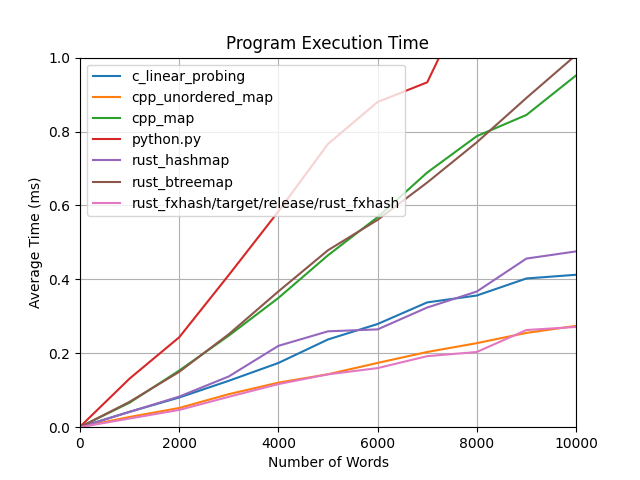
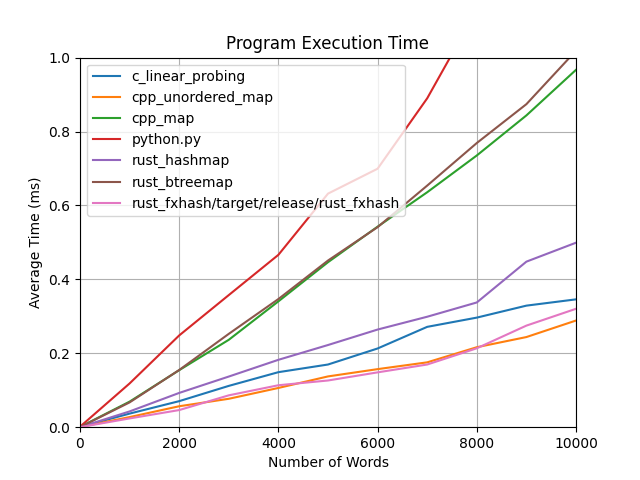
.

diff --git a/gen_words.py b/gen_words.py
@@ -3,14 +3,15 @@
 import random
 import sys
 
-words = open("/usr/share/dict/words").readlines()
-words = random.sample(words, 1000)
+def genwords(samplesize, numwords):
+	words = open("/usr/share/dict/words").readlines()
+	words = random.sample(words, samplesize)
 
-numwords = int(sys.argv[1]) if len(sys.argv) > 1 else 10000
+	out = open("words.txt", "w")
 
-out = open("words.txt", "w")
+	for i in range(numwords):
+		out.write(random.choice(words))
 
-for i in range(numwords):
-	out.write(random.choice(words))
+	out.close()
 
-out.close()
+genwords(int(sys.argv[1]), int(sys.argv[2]))

diff --git a/c_linear_probing.c b/c_linear_probing.c
@@ -136,15 +136,21 @@ Entry* HashMap_get_or_default(HashMap* hm, const char* k, int d) {
 
 	size_t h = djb2(k) % hm->size;
 
-	Entry* e;
+    Entry* e;
+    int i2 = h;
 	for (int i = 0; i < hm->size; i++) {
-		e = &hm->entries[(i + h) % hm->size];
+		e = &hm->entries[i2];
 		if (e->k == NULL) {
 			break;
 		}
 		if (strcmp(e->k, k) == 0) {
 			return e;
 		}
+
+        i2++;
+        if (i2 == hm->size) {
+            i2 = 0;
+        }
 	}
 
 	e->k = k;
